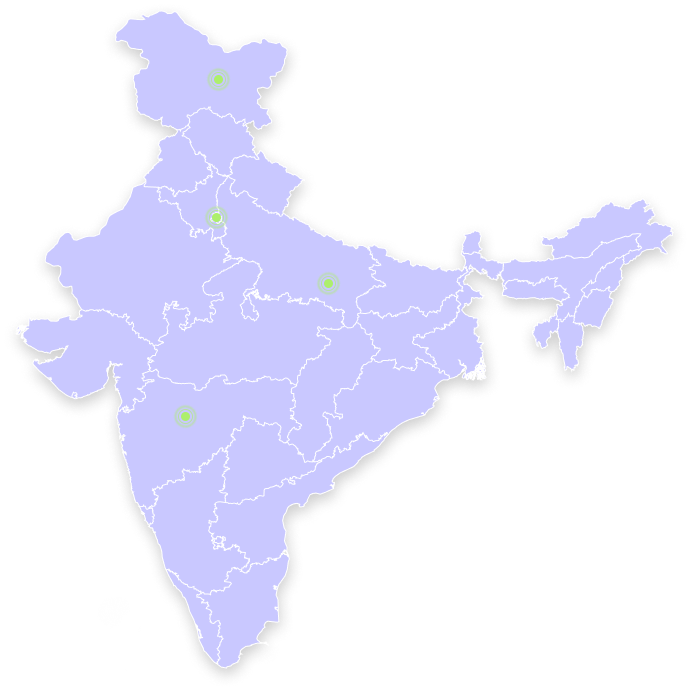
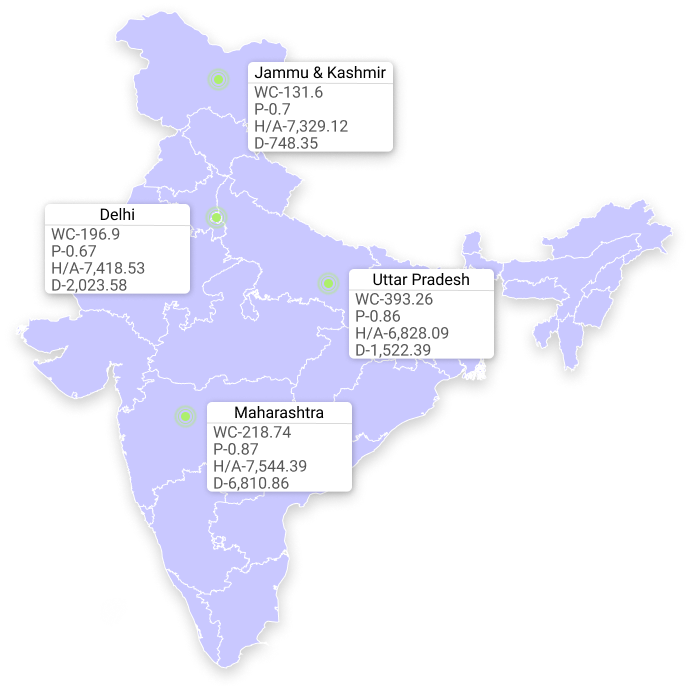
Edited the Map

diff --git a/index.html b/index.html
@@ -17,7 +17,7 @@
         <!-------------------------------------------background------------------------------------------------->
 
 <body class="font-mono bg-gradient-to-br from-yellow-300 via-slate-200 to-fuchsia-300" >
-    <header class='border-b-2 border-gray-300 '>
+    <header class='border-b-2oi border-gray-300 '>
 
         <!-------------------------------------------Navbar------------------------------------------------->
 
@@ -41,7 +41,7 @@
     <div class=" ">
         <div class="flex justify-between ">
             <div class="left basis-1/2 px-8 ml-16">
-                <img src="./Images/mapp.png" alt="INDIAN FLAG">
+                <img src="./Images/IndiaGroup.png" alt="Map"
                 <h5> Shown number of communicable disease cases per 100,000 cases <p class="break-normal"></p>
                     WC- Whooping cough, D- Dengue, H/A- HIV/AIDS, P- Pneumoconiosis <p class="break-normal"></p>Shown number of communicable disease cases per 100,000 cases</h5>
             </div>
@@ -85,7 +85,7 @@
         <div class="text-4xl mt-9 text-center font-bold drop-shadow-2xl">HOW DOES IT WORK?</div>
         <p class="text-center px-12 py-6"> We take your information such as weight, height etc along with your symtoms. With an optional upload of your blood tests,
             and factoring in the hotpots near you and other enviromental factors such as rainfall we make a calculative result and provide you with details of your predicted disease.
-            We also provide information of the nearest clinic or hospital that you can contact for your immediate check up.
+            We also provide information of the nearest clinic or hospital that you can contact ftor your immediate check up.
         </p>
     </div>
 
